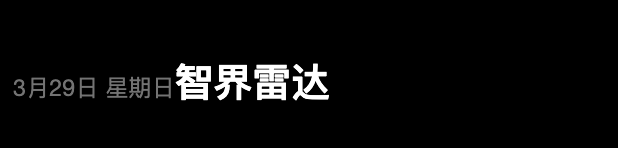
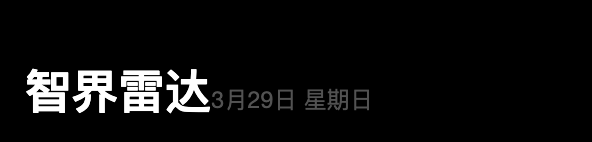
style: 首页header简化，只保留日期，字体放大

Changed region(s): [[0.0, 0.4225, 0.6385, 0.8169]]

diff --git a/src/pages/index/index.tsx b/src/pages/index/index.tsx
@@ -150,10 +150,7 @@ const IndexPage: FC = () => {
       {/* Header */}
       <View className="px-4 pt-8 pb-5">
         <View className="flex items-center justify-between">
-          <View className="flex-1">
-            <Text className="text-white text-2xl font-bold">智界雷达</Text>
-            <Text className="text-neutral-600 text-xs mt-1">{getTodayDate()}</Text>
-          </View>
+          <Text className="text-neutral-300 text-lg font-medium">{getTodayDate()}</Text>
           <View 
             className="w-10 h-10 rounded-full bg-neutral-900 flex items-center justify-center"
             onClick={handleRefresh}
